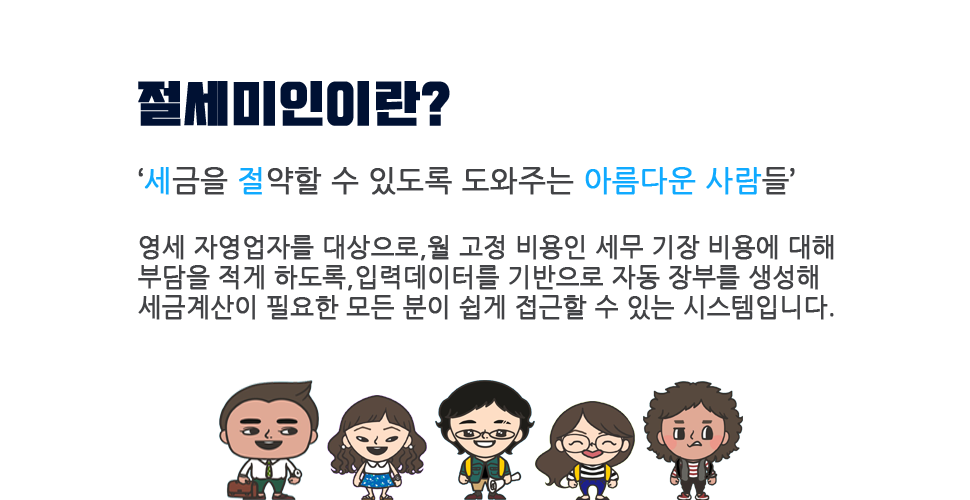
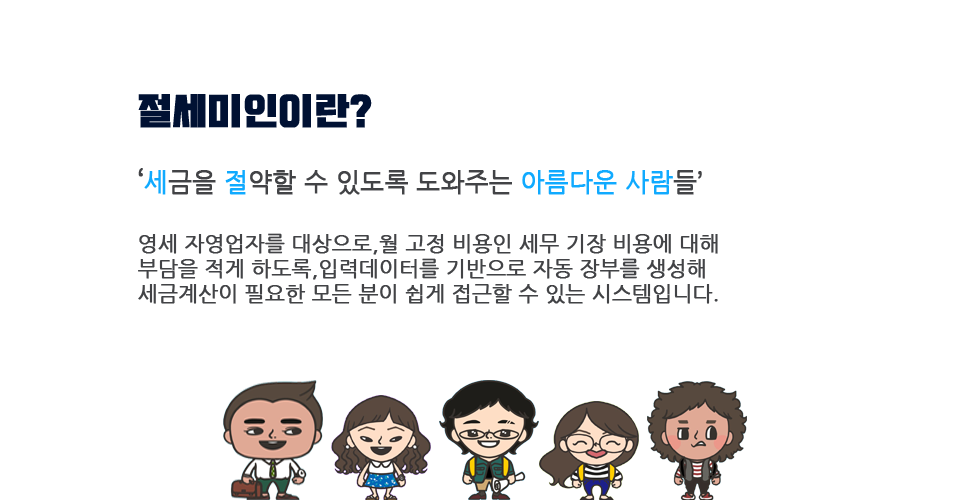
폰트 수정, 소개이미지경로, F&Q.jsp ,menubar 경로연결

diff --git a/savingTaxProject/web/css/common/font.css b/savingTaxProject/web/css/common/font.css
@@ -12,32 +12,32 @@
 
 @font-face{
 	font-family:noscocks; 
-	src: url(/font/noscocks.ttf);
+	src: url('/jsmi/font/noscocks.ttf');
 }
 
 @font-face{
 	font-family:seodang; 
-	src: url(/font/seodang.ttf);
+	src: url('/jsmi/font/seodang.ttf');
 }
 
 @font-face{
 	font-family:computer; 
-	src: url(/font/computer.ttf);
+	src: url('/jsmi/font/computer.ttf');
 }
 
 @font-face{
 	font-family:generalee; 
-	src: url(/font/generalee.ttf);
+	src: url('/jsmi/font/generalee.ttf');
 }
 
 @font-face{
 	font-family:tenbyten; 
-	src: url(/font/tenbyten.ttf);
+	src: url('/jsmi/font/tenbyten.ttf');
 }
 
 @font-face{
 	font-family:tenbyten; 
-	src: url(/font/tenbyten.ttf);
+	src: url('/jsmi/font/tenbyten.ttf/');
 }
 
 @font-face{
@@ -46,14 +46,10 @@
 }
 
 @font-face{
-	font-family:mobius; 
-	src: url(/font/NanumGothicExtraBold.ttf);
+	font-family:; 
+	src: url('/jsmi/font/NanumGothicExtraBold.ttf');
 }
 
-@font-face{
-	font-family:mobius; 
-	src: url(/font/NanumGothicExtraBold.ttf);
-}
 
 @font-face{
 	font-family:redmailbox; 
@@ -62,12 +58,12 @@
 
 @font-face{
 	font-family:cartoonstory; 
-	src: url(/font/cartoonstory.ttf);
+	src: url('/jsmi/font/cartoonstory.ttf');
 }
 
 @font-face{
 	font-family:appcircle; 
-	src: url(/font/appcircle.ttf);
+	src: url('/jsmi/font/appcircle.ttf');
 }
 
 @font-face{
@@ -77,7 +73,7 @@
 
 @font-face{
 	font-family:HoonJunglebook; 
-	src: url(/font/HoonJunglebook.otf);
+	src: url('/jsmi/font/HoonJunglebook.otf');
 }
 
 @font-face{
@@ -87,7 +83,7 @@
 
 @font-face{
 	font-family:mordengodic; 
-	src: url(/font/mordengodic.ttf);
+	src: url('/jsmi/font/mordengodic.ttf');
 }
 
 @font-face{
@@ -102,7 +98,7 @@
 
 @font-face{
 	font-family:ssangmundong; 
-	src: url(/font/ssangmunDong.ttf);
+	src: url('/jsmi/font/ssangmunDong.ttf');
 }
 
 
